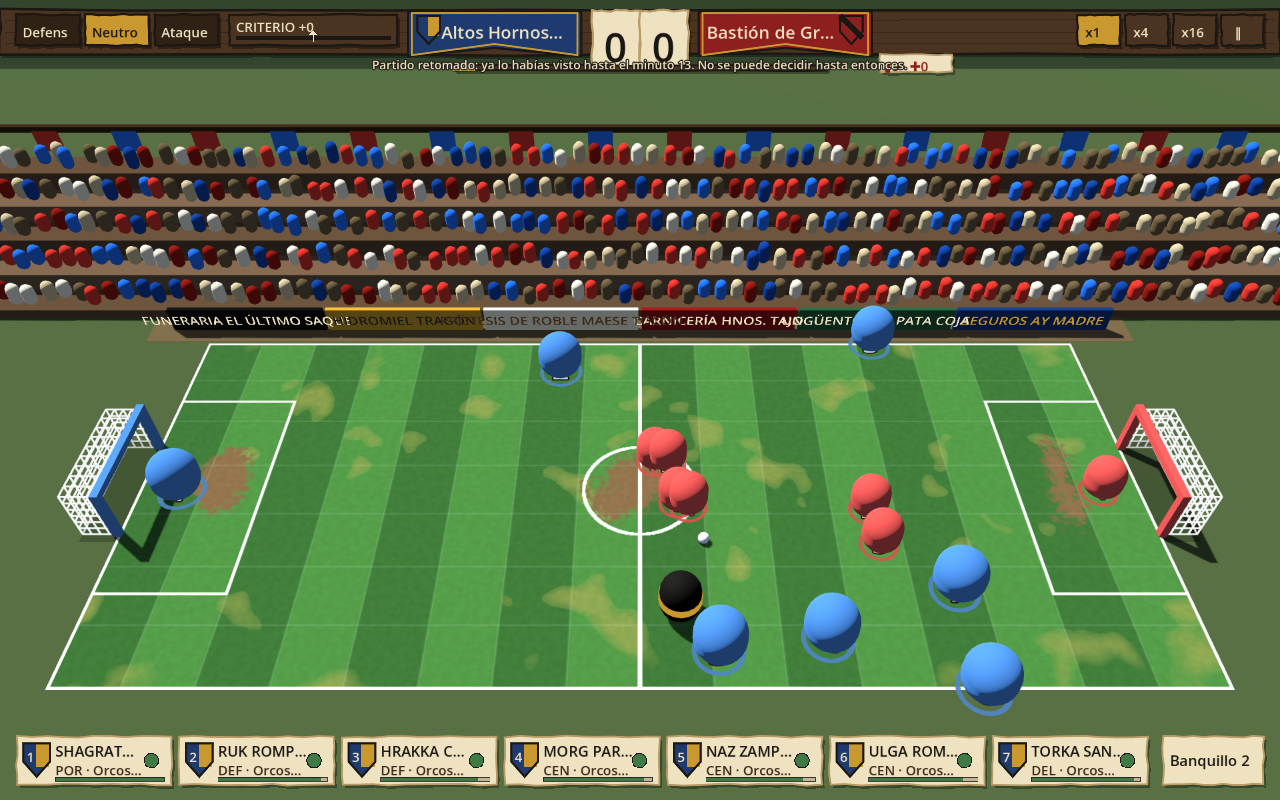
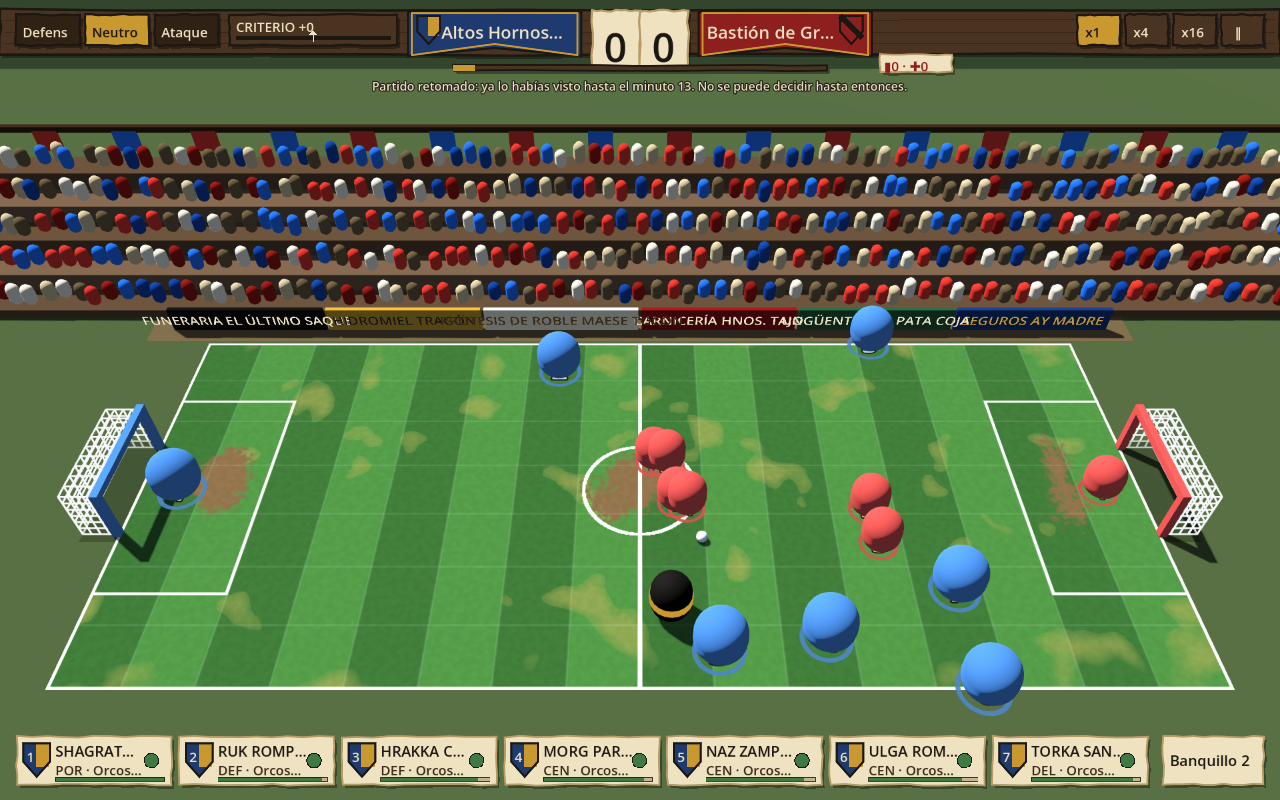
fix(game): la vista 2D y el residuo cuentan como visto, el aviso no roza el chip del residuo; BR-A anota Continue y F3 — BR-A, RT-061, ADR 0183
Claude-Session: https://claude.ai/code/session_01AQr5r97eKSSoLTrMCwntSb

diff --git a/Game/Autoload/RunControllerMatch.cs b/Game/Autoload/RunControllerMatch.cs
@@ -98,51 +98,25 @@ public partial class RunController
         }
     }
 
+    /// <summary>
+    /// La reproducción con las decisiones actuales; los puntos de sustitución por debajo de lo ya visto se
+    /// resuelven con la política por defecto en <c>/Sim</c> (ADR 0183) y quedan anotados en
+    /// <see cref="Decisions"/>, para que lo que se enseña y lo que se aplica sean el mismo partido.
+    /// </summary>
+    private MatchPlayback PlaybackFor(RunState before, int nodeId)
+    {
+        var playback = MatchPlaybacks.OfResolvingBlockedPoints(
+            before, nodeId, Catalog!, Engine, trace: true, Decisions, _floorTick, out var resolved);
+        Decisions = resolved;
+        return playback;
+    }
+
     private void WriteCheckpoint(bool pessimistic)
     {
         var pending = pessimistic && Playback is not null
-            ? PendingMatch.BeforeShowing(_matchNodeId, Decisions, Playback)
+            ? PendingMatch.BeforeShowing(_matchNodeId, Decisions, Playback, _floorTick)
             : new PendingMatch(_matchNodeId, Decisions, Math.Max(_watchedTick, _floorTick));
         WriteSave(RunSave.Save(_stateBeforeMatch!, pending));
-    }
-
-    /// <summary>
-    /// Los puntos de sustitución que caen por debajo de lo que el jugador ya vio se resuelven con la política
-    /// por defecto, sin ventana: elegir con el futuro conocido sería volver a tirar el partido (ADR 0183). Como
-    /// las respuestas que ya había dado viajan en <see cref="Decisions"/>, sólo quedan los puntos que no llegó a
-    /// responder. Se resuelven aquí, antes de que la pantalla vea la reproducción, para que lo que se enseña y lo
-    /// que se aplica sean el mismo partido.
-    /// </summary>
-    private void ResolveBlockedPoints()
-    {
-        if (_floorTick <= 0 || Catalog is null || _stateBeforeMatch is null || Playback is null)
-        {
-            return;
-        }
-
-        // Cota: un punto por suplente como mucho, y la ventana no admite más.
-        for (int guard = 0; guard < 64; guard++)
-        {
-            var point = SubstitutionPoints.Pending(Playback.Setup, Playback.Result, Playback.PlayerTeam, Catalog, Decisions.Declines);
-            if (point is null || CanDecideAt(point.Tick + 1))
-            {
-                return;
-            }
-
-            Decisions = point.DefaultCandidateId >= 0
-                ? Decisions with
-                {
-                    Substitutions = new List<Substitution>(Decisions.Substitutions)
-                    {
-                        new(point.Tick, point.OutPlayerId, point.DefaultCandidateId),
-                    },
-                }
-                : Decisions with
-                {
-                    Declines = new List<DeclinedSubstitution>(Decisions.Declines) { new(point.Tick, point.OutPlayerId) },
-                };
-            Playback = MatchPlaybacks.Of(_stateBeforeMatch, _matchNodeId, Catalog, Engine, trace: true, Decisions);
-        }
     }
 
     /// <summary>
@@ -380,8 +354,7 @@ public partial class RunController
         }
 
         Decisions = decisions;
-        Playback = MatchPlaybacks.Of(_stateBeforeMatch, _matchNodeId, Catalog, Engine, trace: true, Decisions);
-        ResolveBlockedPoints();
+        Playback = PlaybackFor(_stateBeforeMatch, _matchNodeId);
         State = _stateBeforeMatch;
         EnterOpenMatch(_matchNodeId);
     }
@@ -410,8 +383,7 @@ public partial class RunController
         _stateBeforeMatch = State;
         _matchNodeId = nodeId;
         _matchOpen = true;
-        Playback = MatchPlaybacks.Of(State, nodeId, Catalog, Engine, trace: true, Decisions);
-        ResolveBlockedPoints();
+        Playback = PlaybackFor(State, nodeId);
         EnterOpenMatch(nodeId);
     }
 

diff --git a/Game/Screens/BroadcastScreen.cs b/Game/Screens/BroadcastScreen.cs
@@ -415,7 +415,7 @@ public partial class BroadcastScreen : Control
 
         _replayNotice = new Label
         {
-            Position = new Vector2(0f, 84f),
+            Position = new Vector2(0f, 116f),
             Size = new Vector2(CanvasWidth, 24f),
             HorizontalAlignment = HorizontalAlignment.Center,
             MouseFilter = MouseFilterEnum.Ignore,
@@ -1209,8 +1209,6 @@ public partial class BroadcastScreen : Control
 
         _frame = Mathf.Clamp(_frame, 0, trace.FrameCount - 1);
 
-        // BR-A, ADR 0183: lo más lejos que llega a ver el jugador es lo que se guarda si sale ahora.
-        _run.NoteWatched(trace.TickAt(_frame));
         _pitch3d.Frame = _frame;
         _pitch3d.Alpha = _frozenLastFrame ? 0f : (float)Mathf.Clamp(_carry, 0d, 1d);
         _pitch3d.QueueRedraw();
@@ -1222,6 +1220,10 @@ public partial class BroadcastScreen : Control
         int residueFrame = _residueMoment is not null
             ? Mathf.Clamp(_residueMoment.LastFrame, 0, trace.FrameCount - 1)
             : _frame;
+
+        // BR-A, ADR 0183: lo más lejos que llega a ver el jugador es lo que se guarda si sale ahora. El marcador
+        // y las tiras ya enseñan el residuo, que puede ir por delante del campo congelado: cuenta lo más lejano.
+        _run.NoteWatched(Math.Max(trace.TickAt(_frame), trace.TickAt(residueFrame)));
 
         if (_frame == _synced && _residueMoment == _lastResidueMoment)
         {

diff --git a/Game/Screens/MatchScreen.cs b/Game/Screens/MatchScreen.cs
@@ -596,6 +596,10 @@ public partial class MatchScreen : Control
         }
 
         _frame = Mathf.Clamp(_frame, 0, trace.FrameCount - 1);
+
+        // BR-A, ADR 0183: esta vista (F3 desde la retransmisión) enseña el partido igual de entero; lo que
+        // enseña cuenta como visto, o se podría ver aquí, guardar limpio y bajar el suelo.
+        RunController.Instance?.NoteWatched(trace.TickAt(_frame));
         CheckSubstitution(trace);
         _pitch.Frame = _frame;
         _pitch.Alpha = _playing ? (float)_carry : 0f;

diff --git a/docs/pendientes/BR-A.md b/docs/pendientes/BR-A.md
@@ -41,3 +41,12 @@ del partido más `PendingMatch` (nodo, decisiones, tick más lejano visto), esqu
 guardado de después se escribe al llegar al informe. Anti-abuso: el resultado no puede cambiar (mismo estado,
 semilla y decisiones) y los controles en vivo se bloquean antes de lo ya visto. CONFIRMED por
 `Sim.Tests/Run/PendingMatchTests.cs`.
+
+## Hermano abierto (anotado en la segunda revisión)
+
+`Continue()` borra el slot al cargar (RT-061: «se borra al cargarse», anti-recarga). Un cierre forzado entre
+la carga y el siguiente guardado pierde la run. No se arregla aquí: conservar el fichero reabre justo la recarga
+que el borrado impide (matar el proceso tras una mala decisión de un nodo abierto y volver al guardado
+anterior), así que es una decisión del revisor, no un arreglo mecánico. Con partido a medias el riesgo es
+mínimo: `PlayMatch` reescribe el guardado antes de enseñar nada. La vista 2D (F3) ya registra lo que enseña
+(`MatchScreen` llama a `NoteWatched`); si F3 debe existir sólo en desarrollo es decisión del revisor, no se ha cambiado.
